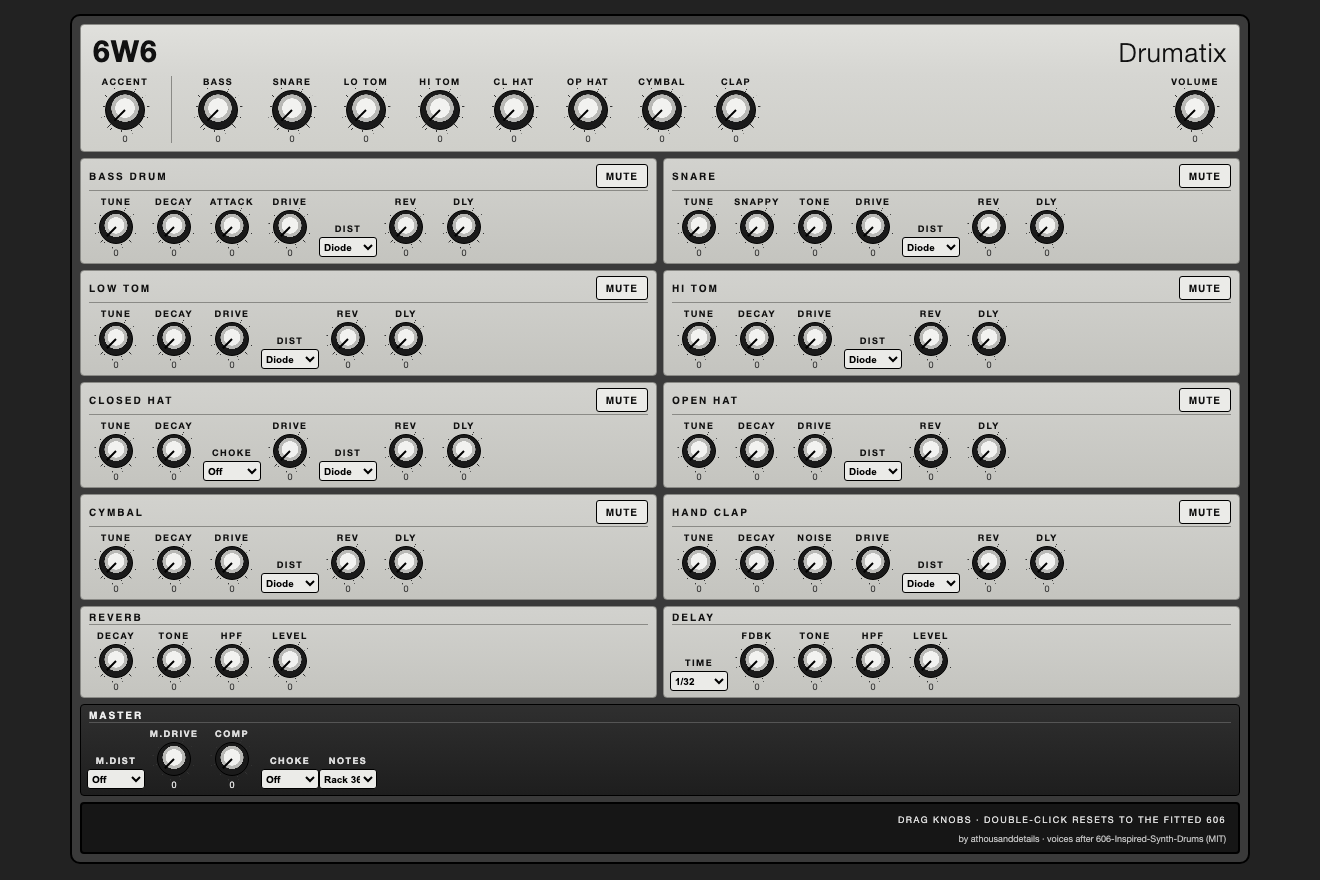
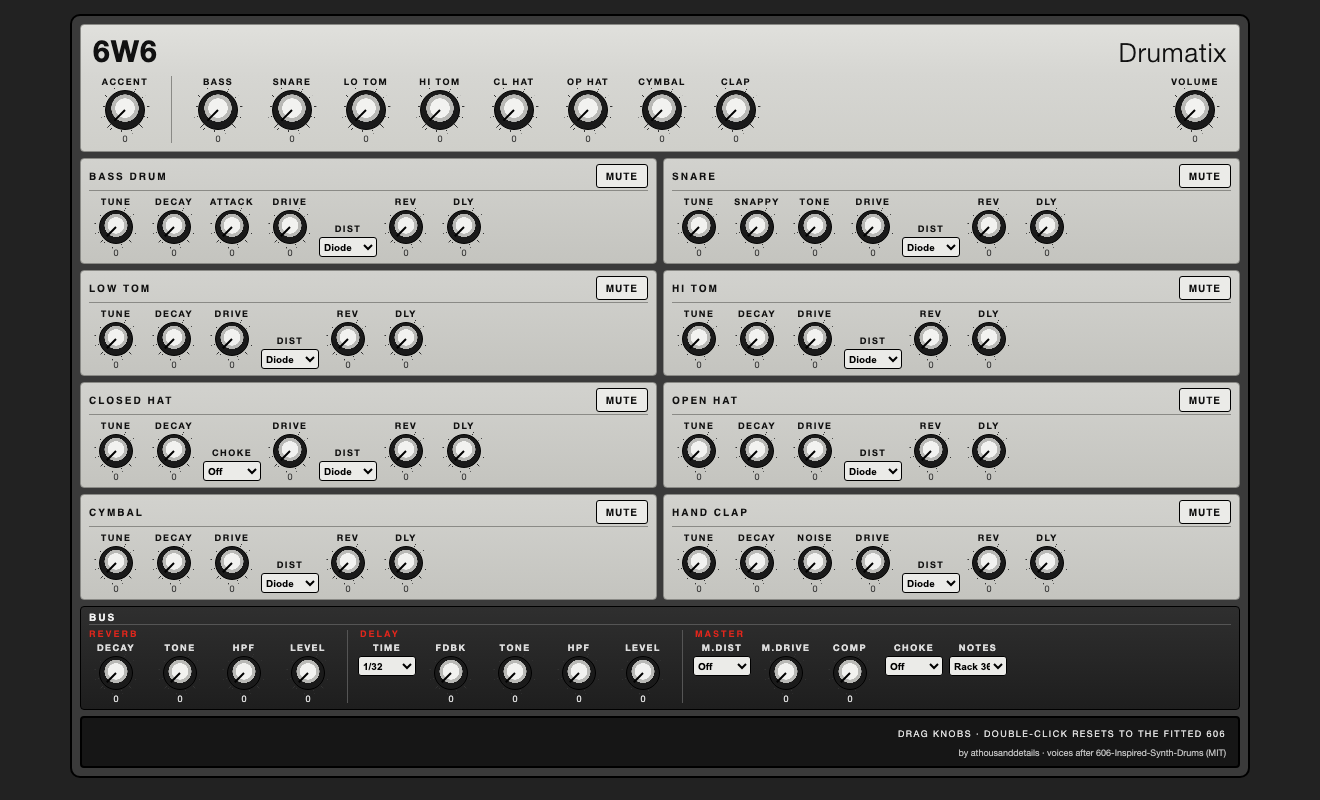
Panel: the send buses join the master bar
Reverb and Delay are bus processing, the same as the master stage, so they sit
with it on one dark bar at the foot rather than as two more boxes in the drum
grid. Three labelled groups on one line; the grid above stays purely about
drums, which is what you scan when you are playing.

Verified live: eight voice sections, the bus bar carrying Reverb/Delay/Master,
Closed Hat highlighted because that is the page the Move is on, values reading
through from the device.

Changed region(s): [[0.0621, 0.0, 0.9629, 1.0]]

diff --git a/src/web_ui.html b/src/web_ui.html
@@ -94,6 +94,12 @@
   .shead { display: flex; align-items: center; justify-content: space-between;
            border-bottom: 1px solid #8a8a86; margin-bottom: 5px; padding-bottom: 2px; }
   .sect.mast .shead { border-color: #555; }
+  /* the bottom bar holds three labelled groups side by side */
+  .grp { display: flex; flex-direction: column; gap: 3px; }
+  .gname { font: 800 9px/1 Helvetica, Arial; letter-spacing: 2px; color: var(--red);
+           text-transform: uppercase; }
+  .sect.mast .row { flex-wrap: wrap; gap: 4px 10px; align-items: flex-start; }
+  .vsep { width: 1px; align-self: stretch; background: #555; margin: 0 2px; }
   .sname { font: 800 10px/1 Helvetica, Arial; letter-spacing: 2px; text-transform: uppercase; }
   .sect .row { flex-wrap: nowrap; gap: 2px 4px; align-items: flex-end; }
   .sect .cell { width: 54px; flex: 0 0 54px; }
@@ -298,8 +304,31 @@
       pot(V.id + "_rev", "Rev"), pot(V.id + "_dly", "Dly") ]) };
     sectEls[i] = section(def, "", i);
   });
-  BUSES.forEach(function (B) { section(B, "bus"); });
-  section({ name: "Master", knobs: MASTER }, "mast");
+  /*
+   * The two send buses live on the master bar, not in the voice grid: they
+   * are bus processing, the same as the master stage, and grouping them there
+   * keeps the grid above purely about drums.
+   */
+  (function bottomBar() {
+    var box = document.createElement("div"); box.className = "sect mast";
+    var head = document.createElement("div"); head.className = "shead";
+    var nm = document.createElement("span"); nm.className = "sname";
+    nm.textContent = "Bus"; head.appendChild(nm);
+    box.appendChild(head);
+    var row = document.createElement("div"); row.className = "row";
+    var groups = BUSES.concat([{ id: "master", name: "Master", knobs: MASTER }]);
+    groups.forEach(function (G, i) {
+      if (i) { var v = document.createElement("div"); v.className = "vsep"; row.appendChild(v); }
+      var grp = document.createElement("div"); grp.className = "grp";
+      var gn = document.createElement("div"); gn.className = "gname"; gn.textContent = G.name;
+      var inner = document.createElement("div"); inner.className = "row";
+      G.knobs.forEach(function (kn) { control(inner, kn); });
+      grp.appendChild(gn); grp.appendChild(inner);
+      row.appendChild(grp);
+    });
+    box.appendChild(row);
+    rack.appendChild(box);
+  })();
 
   function renderMutes() {
     Object.keys(muteBtns).forEach(function (lane) {
